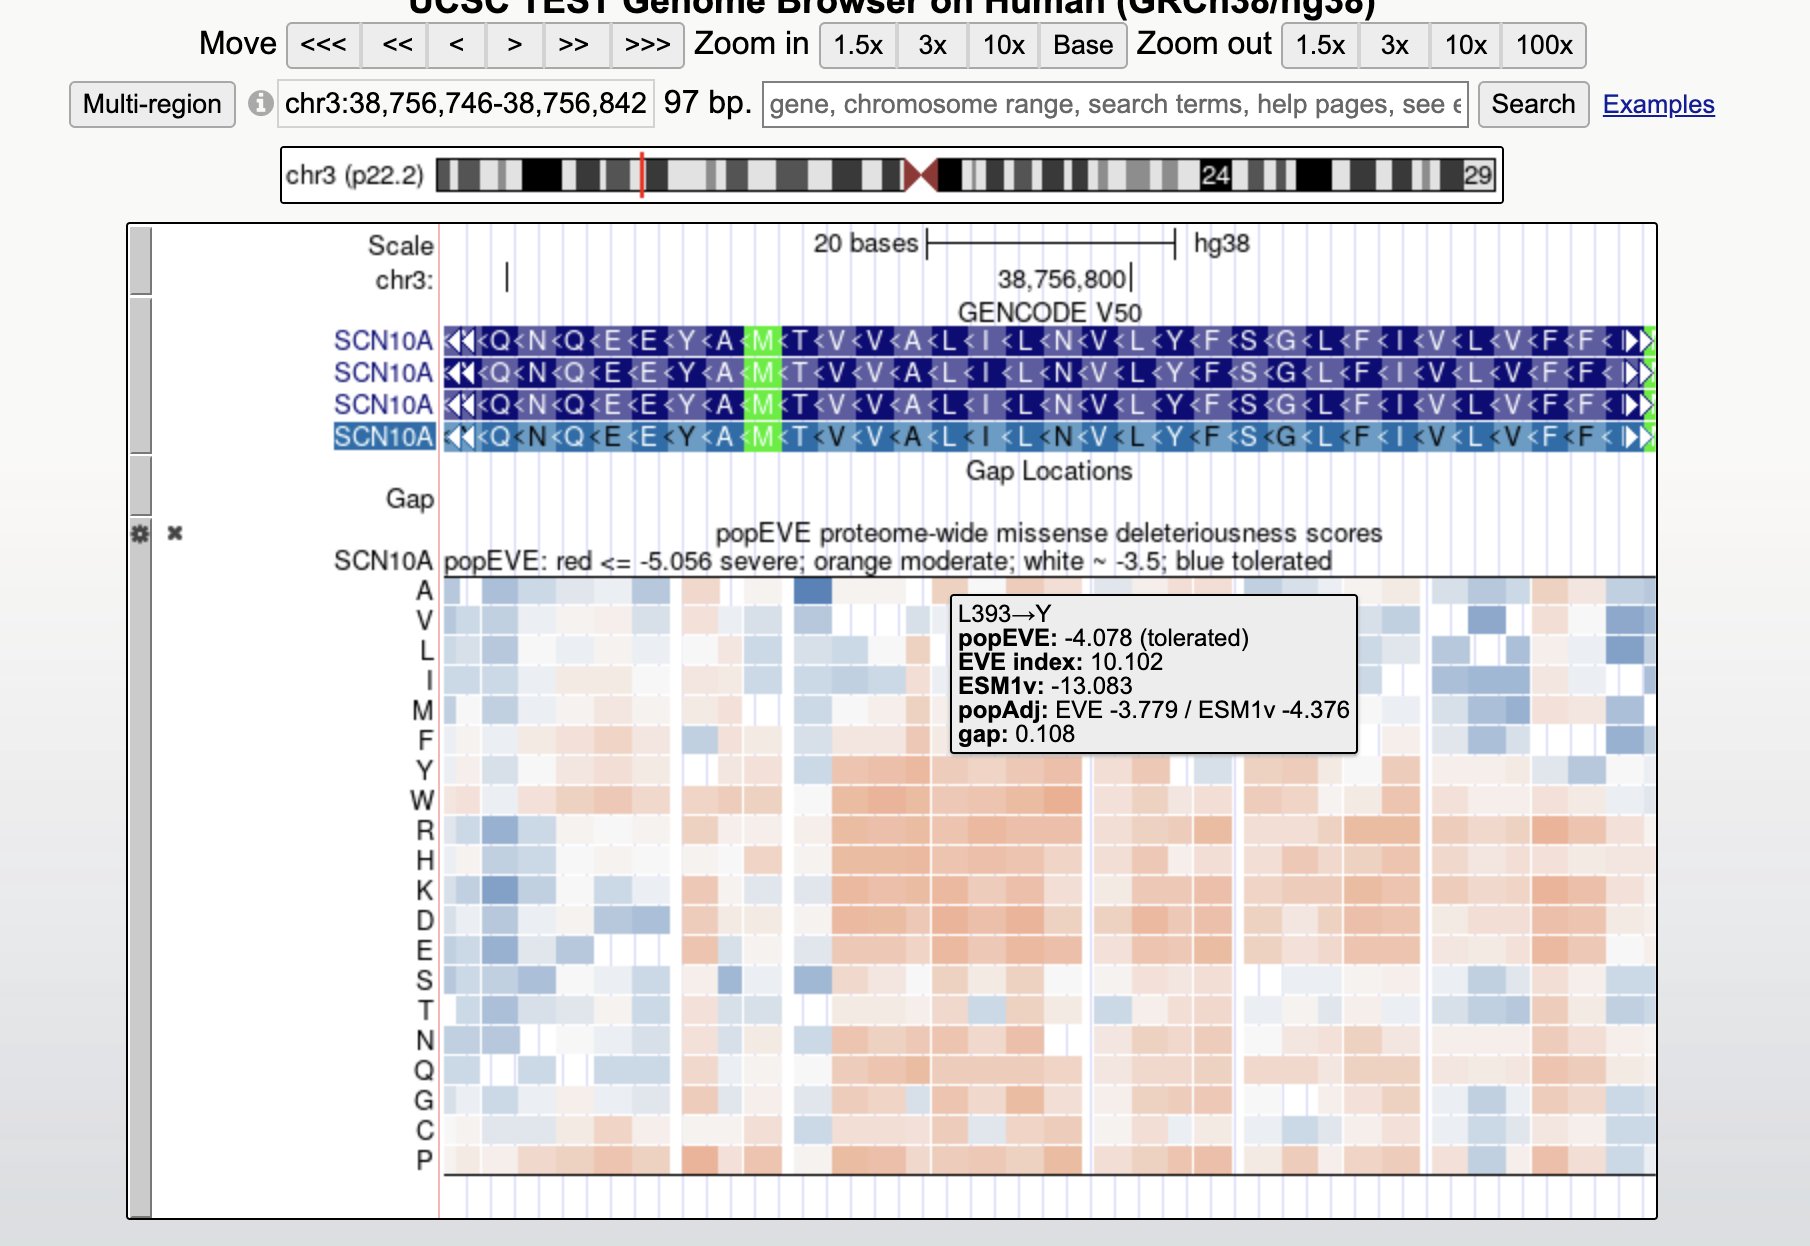
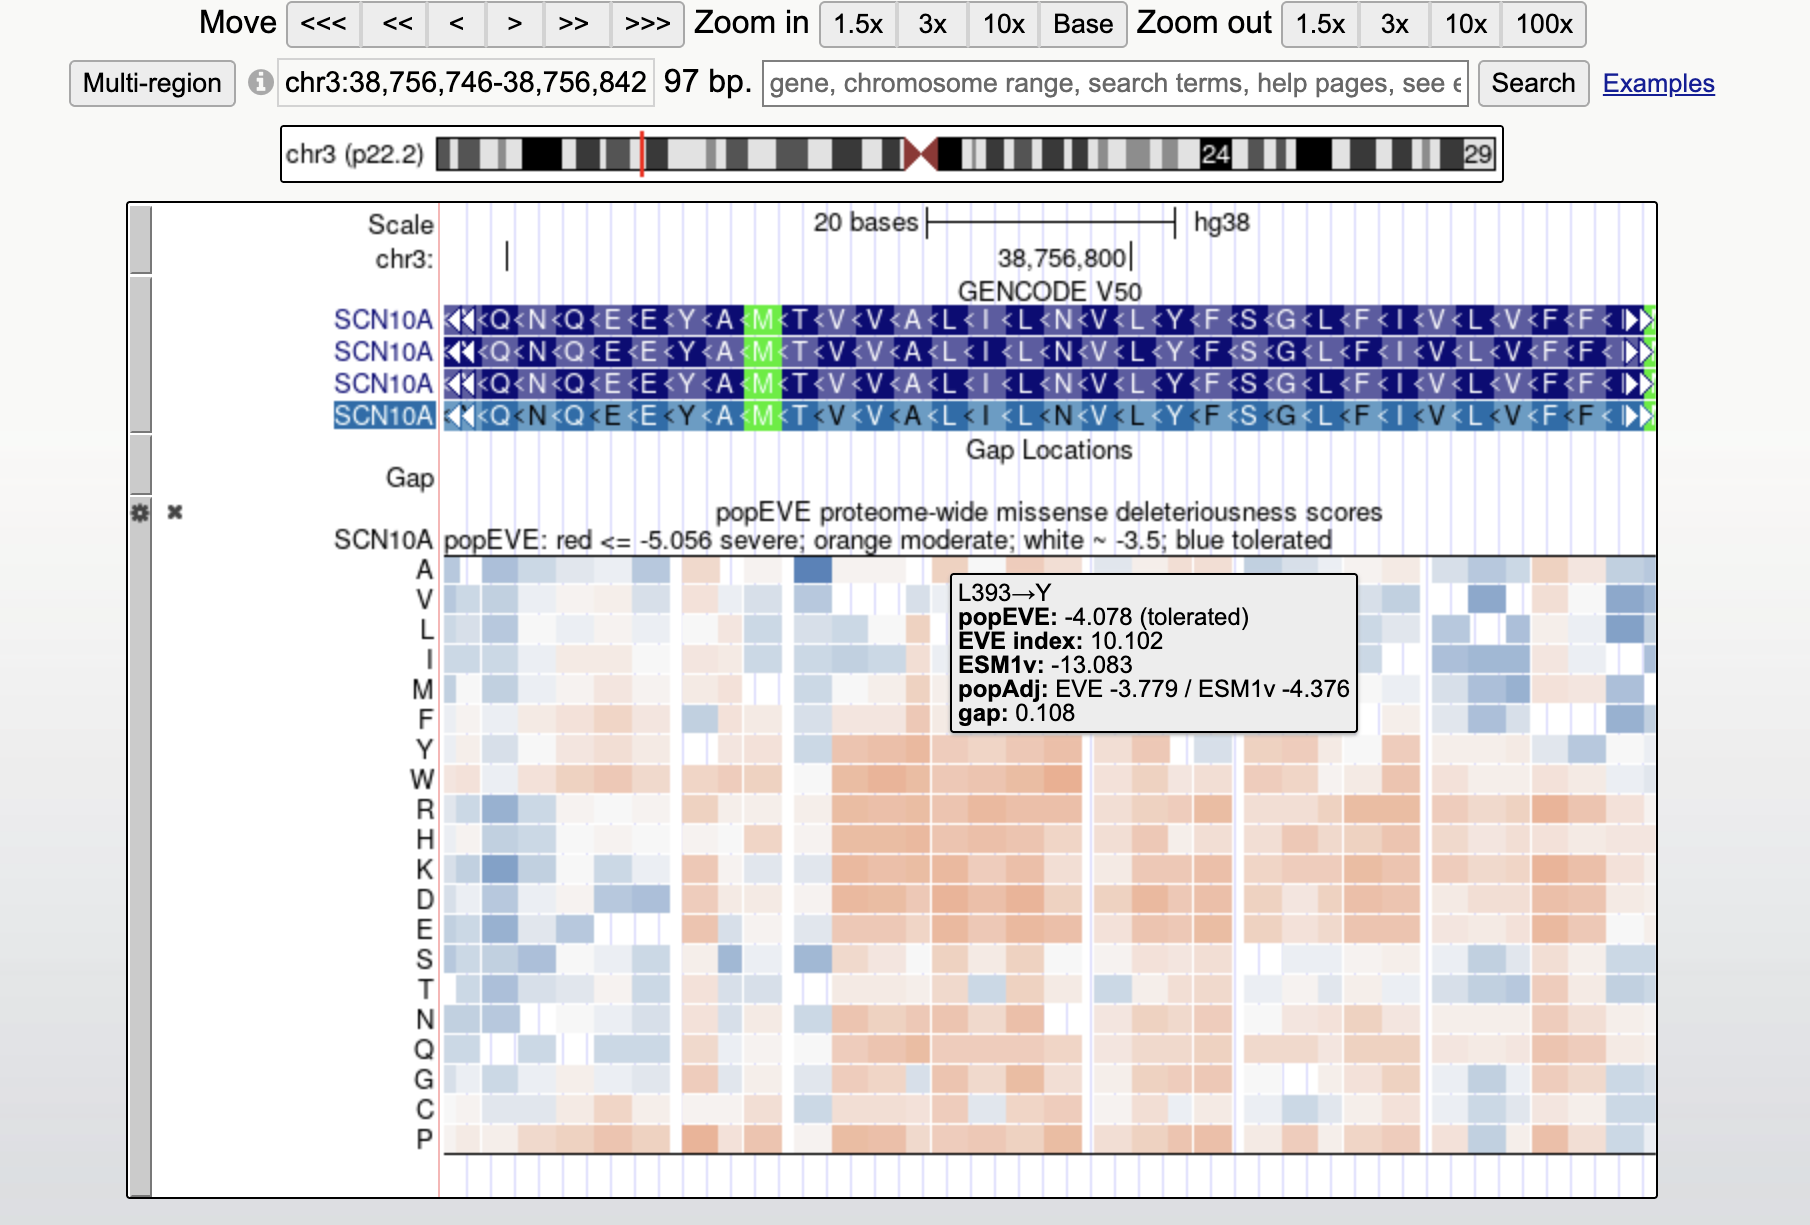
Making changes to the EVE and popEVE announcment, No Redmine

diff --git a/src/hg/htdocs/goldenPath/newsarch.html b/src/hg/htdocs/goldenPath/newsarch.html
@@ -149,21 +149,22 @@ Navarro for testing, feedback, and documentation.
 </p>
 
 <a name="082826"></a>
-<h2>Aug. 28, 2026 &nbsp;&nbsp; Deleteriousness Predictions: popEVE and EVE for hg38</h2>
+<h2>Aug. 28, 2026 &nbsp;&nbsp; Deleteriousness Predictions: EVE and popEVE for hg38</h2>
 <p>
 We are pleased to announce the release of two new proteome-wide missense variant effect
 prediction tracks for hg38:
-<a href="/cgi-bin/hgTrackUi?db=hg38&g=popEve&position=default" target="_blank">popEVE</a> and
-<a href="/cgi-bin/hgTrackUi?db=hg38&g=eve&position=default" target="_blank">EVE</a>.
+<a href="/cgi-bin/hgTrackUi?db=hg38&g=eve&position=default" target="_blank">EVE</a> and
+<a href="/cgi-bin/hgTrackUi?db=hg38&g=popEve&position=default" target="_blank">popEVE</a>.
 Both are deep generative models that predict variant pathogenicity by learning patterns of
 natural sequence variation across species, without relying on clinical labels.
 </p>
 
 <h3>EVE</h3>
 <p>
-<a href="https://evemodel.org" target="_blank">EVE</a> (Evolutionary model of Variant Effect) is a
-deep generative model that predicts the pathogenicity of missense variants by learning patterns of
-natural sequence variation across thousands of species, without relying on clinical labels.
+<a href="/cgi-bin/hgTrackUi?db=hg38&g=eve&position=default" target="_blank">EVE</a>
+(<b>E</b>volutionary model of <b>V</b>ariant <b>E</b>ffect) is a deep generative model that
+predicts the pathogenicity of missense variants by learning patterns of natural sequence variation
+across thousands of species, without relying on clinical labels.
 Pre-computed scores are provided for all possible missense substitutions across 2,949
 disease-associated human proteins.
 </p>
@@ -184,7 +185,8 @@ available.
 </p>
 
 <div class="text-center" style="margin-top: 1.5em;">
-<a href="/cgi-bin/hgTracks?db=hg38&position=chr7%3A81752177-81752229&eve=pack" target="_blank">
+<a href="/cgi-bin/hgTracks?db=hg38&position=chr7%3A81752177-81752229&hideTracks=1&predictionScoresSuper=show&eve=pack&popEve=hide&mutScore=hide&primateAi=hide"
+   target="_blank">
 <img alt="Genome Browser screenshot of the EVE track at the HGF locus on hg38"
 src="/images/newsArchImages/eve.png" width='55%'></a>
 <p class="gbsCaption"><em>EVE missense variant effect scores for the HGF locus (chr7,
@@ -196,9 +198,15 @@ over a cell shows the substitution and EVE score.</em></p>
 Items in this track are colored according to score:
 </p>
 <ul>
-  <li><b>Red</b> &ndash; Likely pathogenic (score &asymp; 1)</li>
-  <li><b>White</b> &ndash; Uncertain (score &asymp; 0.5)</li>
-  <li><b>Blue</b> &ndash; Likely benign (score &asymp; 0)</li>
+  <li><span style="display:inline-block; background-color:#d6604d; width:18px;
+      height:12px; vertical-align:middle;"></span>
+      <b>Red</b> &ndash; Likely pathogenic (score &asymp; 1)</li>
+  <li><span style="display:inline-block; background-color:#f7f7f7; width:18px;
+      height:12px; vertical-align:middle; border:1px solid #ccc;"></span>
+      <b>White</b> &ndash; Uncertain (score &asymp; 0.5)</li>
+  <li><span style="display:inline-block; background-color:#2166ac; width:18px;
+      height:12px; vertical-align:middle;"></span>
+      <b>Blue</b> &ndash; Likely benign (score &asymp; 0)</li>
 </ul>
 
 <p>
@@ -208,14 +216,14 @@ on mouseover. At wider zoom levels, the track switches to displaying a density g
 
 <h3>popEVE</h3>
 <p>
-<a href="https://pop.evemodel.org" target="_blank">popEVE</a> builds on EVE by combining its
-evolutionary signal with predictions from the ESM-1v protein language model and human population
-variation from the UK Biobank. A key difference is that EVE scores are calibrated separately
-within each protein, whereas popEVE scores are calibrated across the entire proteome. That means a
-popEVE score in one gene can be compared directly to a popEVE score in a completely different
-gene. This is useful when prioritizing which of several candidate variants across different genes
-is most likely to be damaging. The track provides popEVE scores for missense substitutions across
-roughly 18,000 human proteins.
+<a href="/cgi-bin/hgTrackUi?db=hg38&g=popEve&position=default" target="_blank">popEVE</a> builds
+on EVE by combining its evolutionary signal with predictions from the ESM-1v protein language
+model and human population variation from the UK Biobank. A key difference is that EVE scores are
+calibrated separately within each protein, whereas popEVE scores are calibrated across the entire
+proteome. That means a popEVE score in one gene can be compared directly to a popEVE score in a
+completely different gene. This is useful when prioritizing which of several candidate variants
+across different genes is most likely to be damaging. The track provides popEVE scores for
+missense substitutions across roughly 18,000 human proteins.
 </p>
 
 <p>
@@ -235,11 +243,22 @@ cell shows the popEVE score for that substitution.
 Items are colored according to score:
 </p>
 <ul>
-  <li><b>Dark red</b> &ndash; Most deleterious (&le; &minus;6.04)</li>
-  <li><b>Red-orange</b> &ndash; Severe (&asymp; &minus;5.056)</li>
-  <li><b>Light orange</b> &ndash; Moderate (&asymp; &minus;4.617)</li>
-  <li><b>White / very light</b> &ndash; Near the proteome-wide median (&asymp; &minus;3.5)</li>
-  <li><b>Blue</b> &ndash; Most tolerated (&ge; &minus;2.41)</li>
+  <li><span style="display:inline-block; background-color:#b2182b; width:18px;
+      height:12px; vertical-align:middle;"></span>
+      <b>Dark red</b> &ndash; Most deleterious (&le; &minus;6.04)</li>
+  <li><span style="display:inline-block; background-color:#d6604d; width:18px;
+      height:12px; vertical-align:middle;"></span>
+      <b>Red-orange</b> &ndash; Severe (&asymp; &minus;5.056)</li>
+  <li><span style="display:inline-block; background-color:#f4a582; width:18px;
+      height:12px; vertical-align:middle;"></span>
+      <b>Light orange</b> &ndash; Moderate (&asymp; &minus;4.617)</li>
+  <li><span style="display:inline-block; background-color:#f7f7f7; width:18px;
+      height:12px; vertical-align:middle; border:1px solid #ccc;"></span>
+      <b>White / very light</b> &ndash; Near the proteome-wide median
+      (&asymp; &minus;3.5)</li>
+  <li><span style="display:inline-block; background-color:#2166ac; width:18px;
+      height:12px; vertical-align:middle;"></span>
+      <b>Blue</b> &ndash; Most tolerated (&ge; &minus;2.41)</li>
 </ul>
 
 <p>
@@ -249,7 +268,7 @@ variant interpretation rather than serve as a stand-alone clinical classifier.
 </p>
 
 <div class="text-center" style="margin-top: 1.5em;">
-<a href="/cgi-bin/hgTracks?db=hg38&position=chr3%3A38756746-38756842&popEve=pack" target="_blank">
+<a href="https://genome.ucsc.edu/s/bkitiyakara/popEVE" target="_blank">
 <img alt="Genome Browser screenshot of the popEVE track at the SCN10A locus on hg38"
 src="/images/newsArchImages/popEve.png" width='55%'></a>
 <p class="gbsCaption"><em>popEVE missense deleteriousness scores for all possible amino acid
@@ -258,14 +277,14 @@ from severe (red) to tolerated (blue).</em></p>
 </div>
 
 <p>
-We would like to thank Mafalda Dias, Jonathan Frazer, Debora S. Marks, Rose Orenbuch, and
-colleagues at Harvard Medical School, the Centre for Genomic Regulation, and collaborating
-institutions for developing popEVE and making the scores publicly available at
-<a href="https://pop.evemodel.org" target="_blank">pop.evemodel.org</a>, and Jonathan Frazer,
-Pascal Notin, Mafalda Dias, and Debora S. Marks at Harvard Medical School, along with Yarin Gal at
-the University of Oxford, for making the EVE scores publicly available at
-<a href="https://evemodel.org" target="_blank">evemodel.org</a>. Lou Nassar and Max Haeussler
-developed these tracks, with QA by Jairo Navarro, Barali Kitiyakara, and Eliza Alde.
+We would like to thank Jonathan Frazer, Pascal Notin, Mafalda Dias, and Debora S. Marks at
+Harvard Medical School, along with Yarin Gal at the University of Oxford, for making the EVE
+scores publicly available at <a href="https://evemodel.org" target="_blank">evemodel.org</a>, and
+Mafalda Dias, Jonathan Frazer, Debora S. Marks, Rose Orenbuch, and colleagues at Harvard Medical
+School, the Centre for Genomic Regulation, and collaborating institutions for developing popEVE
+and making the scores publicly available at
+<a href="https://pop.evemodel.org" target="_blank">pop.evemodel.org</a>. Lou Nassar and Max
+Haeussler developed these tracks, with QA by Jairo Navarro, Barali Kitiyakara, and Eliza Alde.
 </p>
 
 <a name="082626"></a>

diff --git a/src/hg/htdocs/indexNews.html b/src/hg/htdocs/indexNews.html
@@ -26,7 +26,7 @@
   <div class="jwNewsItem jwSingleLineRightColumn">
   Aug. 28, 2026 -
   <a href="goldenPath/newsarch.html#082826">
-  popEVE and EVE variant scores for hg38
+  EVE and popEVE variant scores for hg38
   </a></div>
 
   <div class="jwNewsItem jwSingleLineRightColumn">
